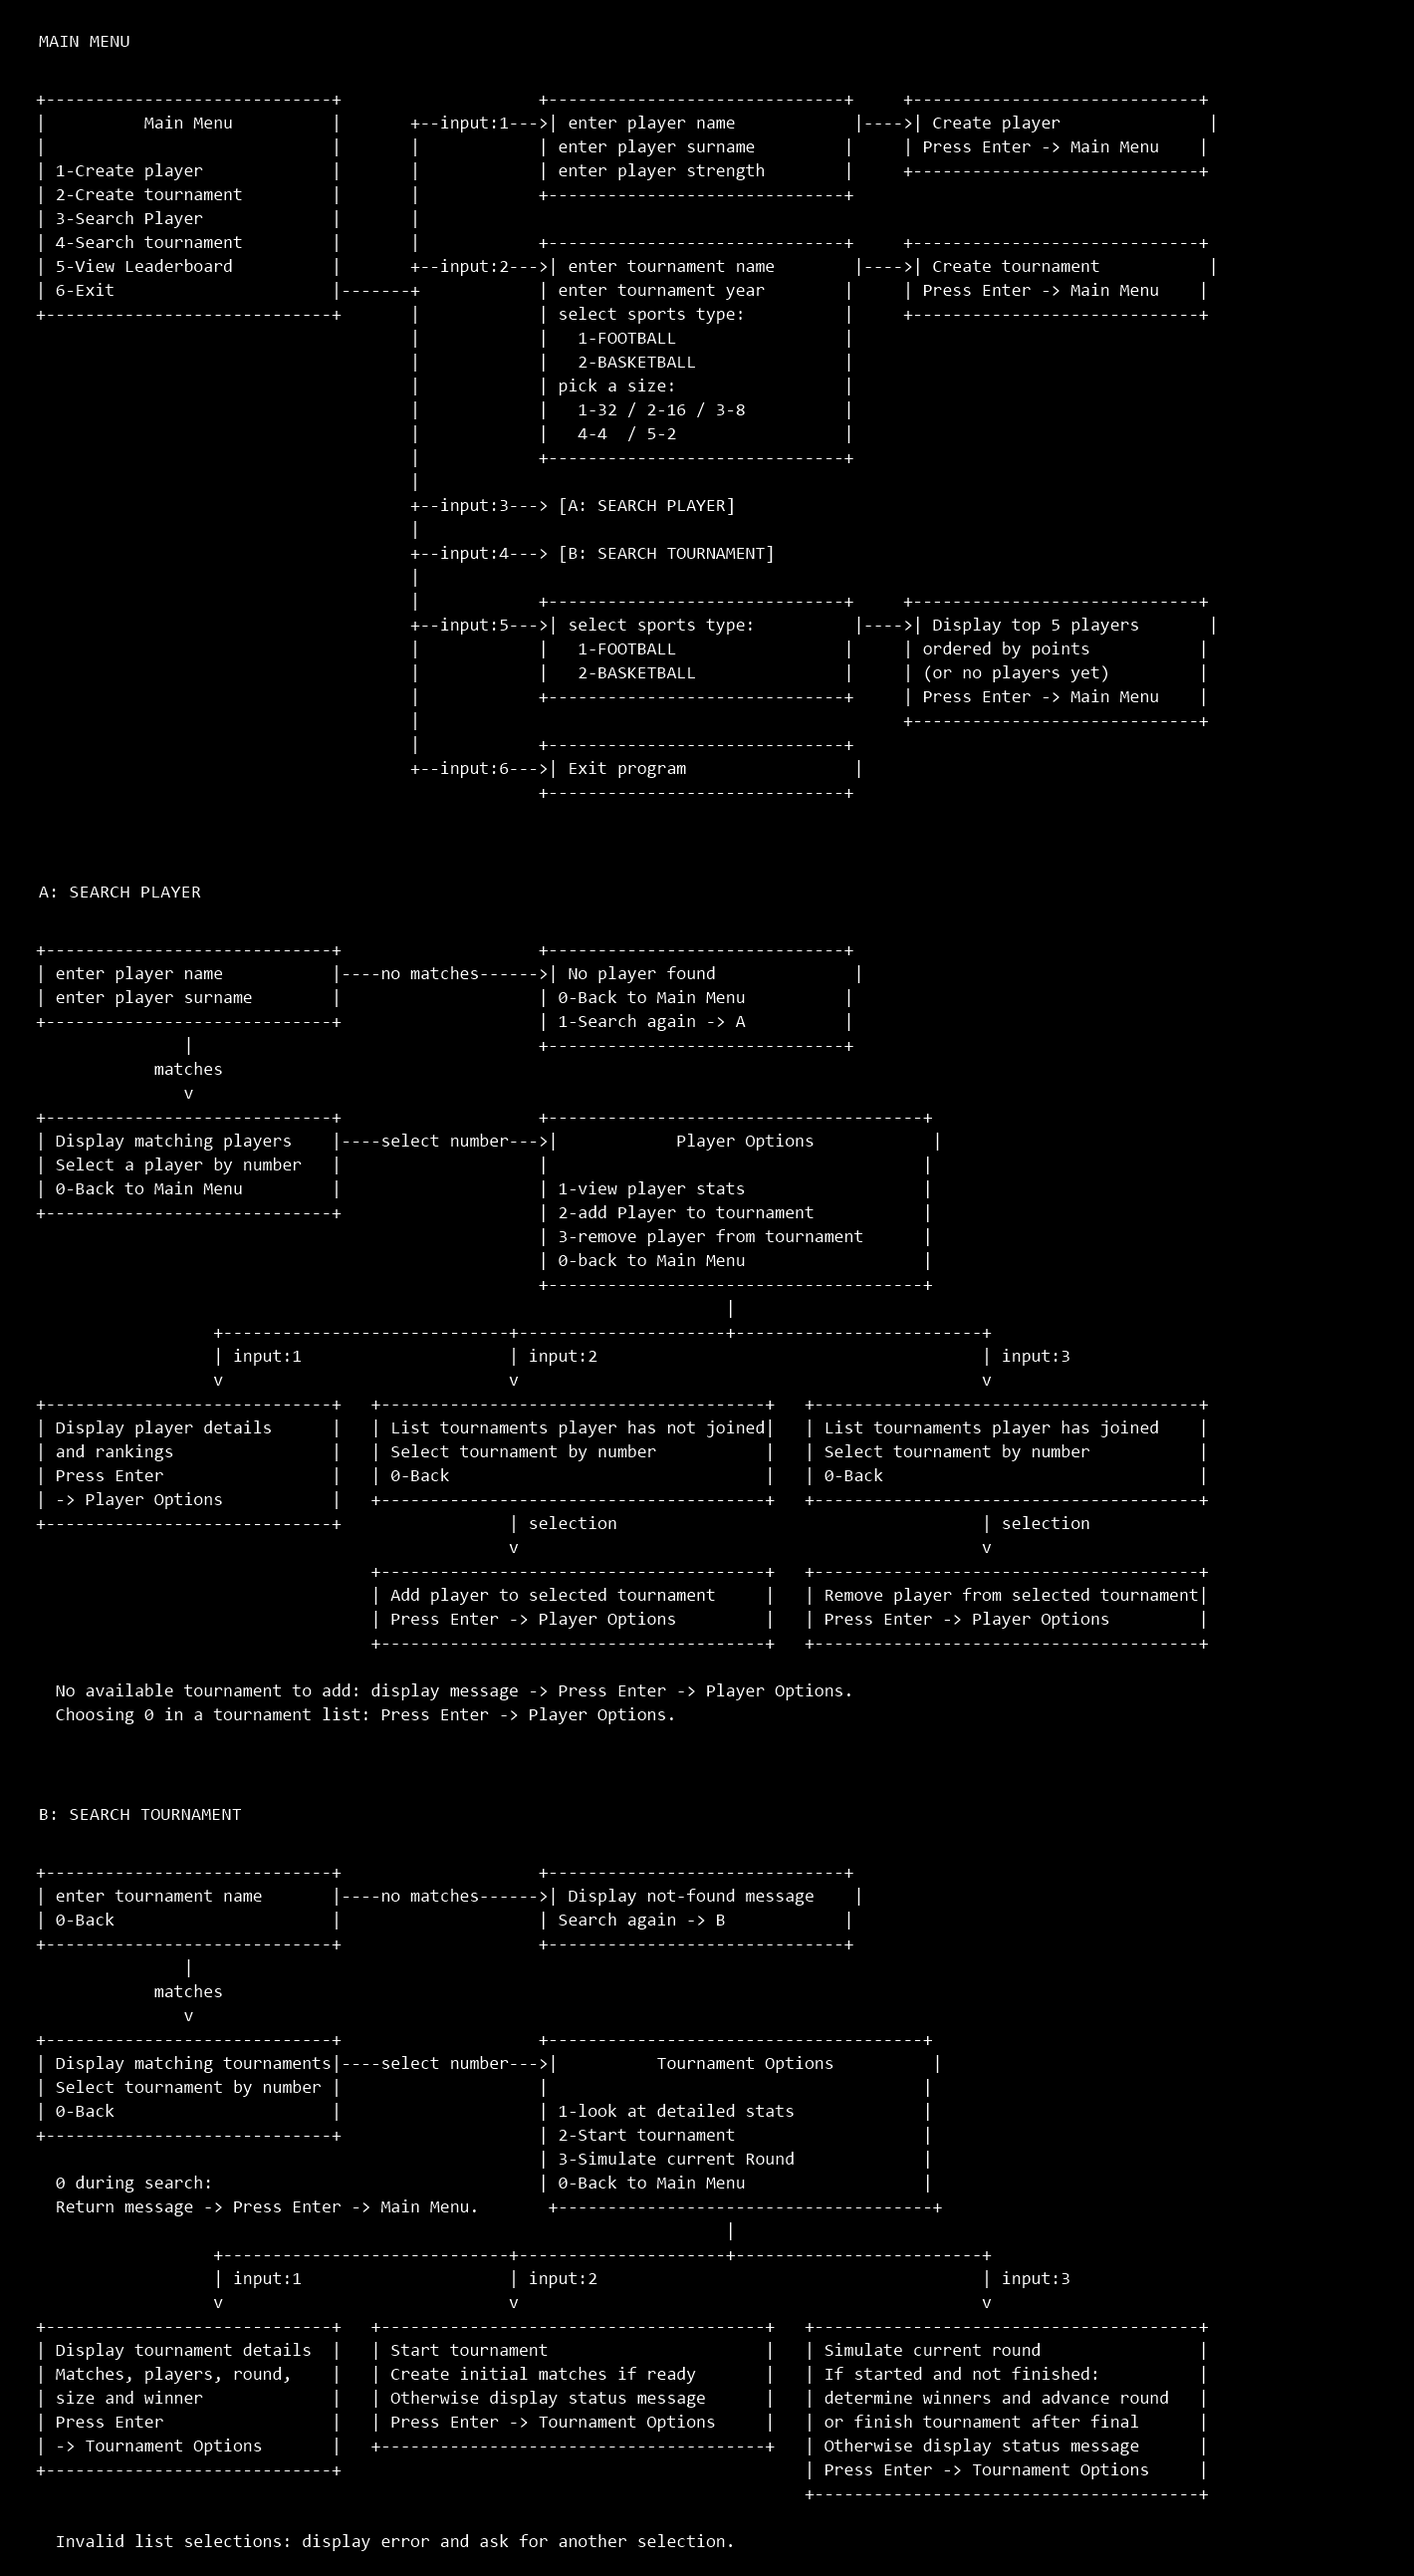
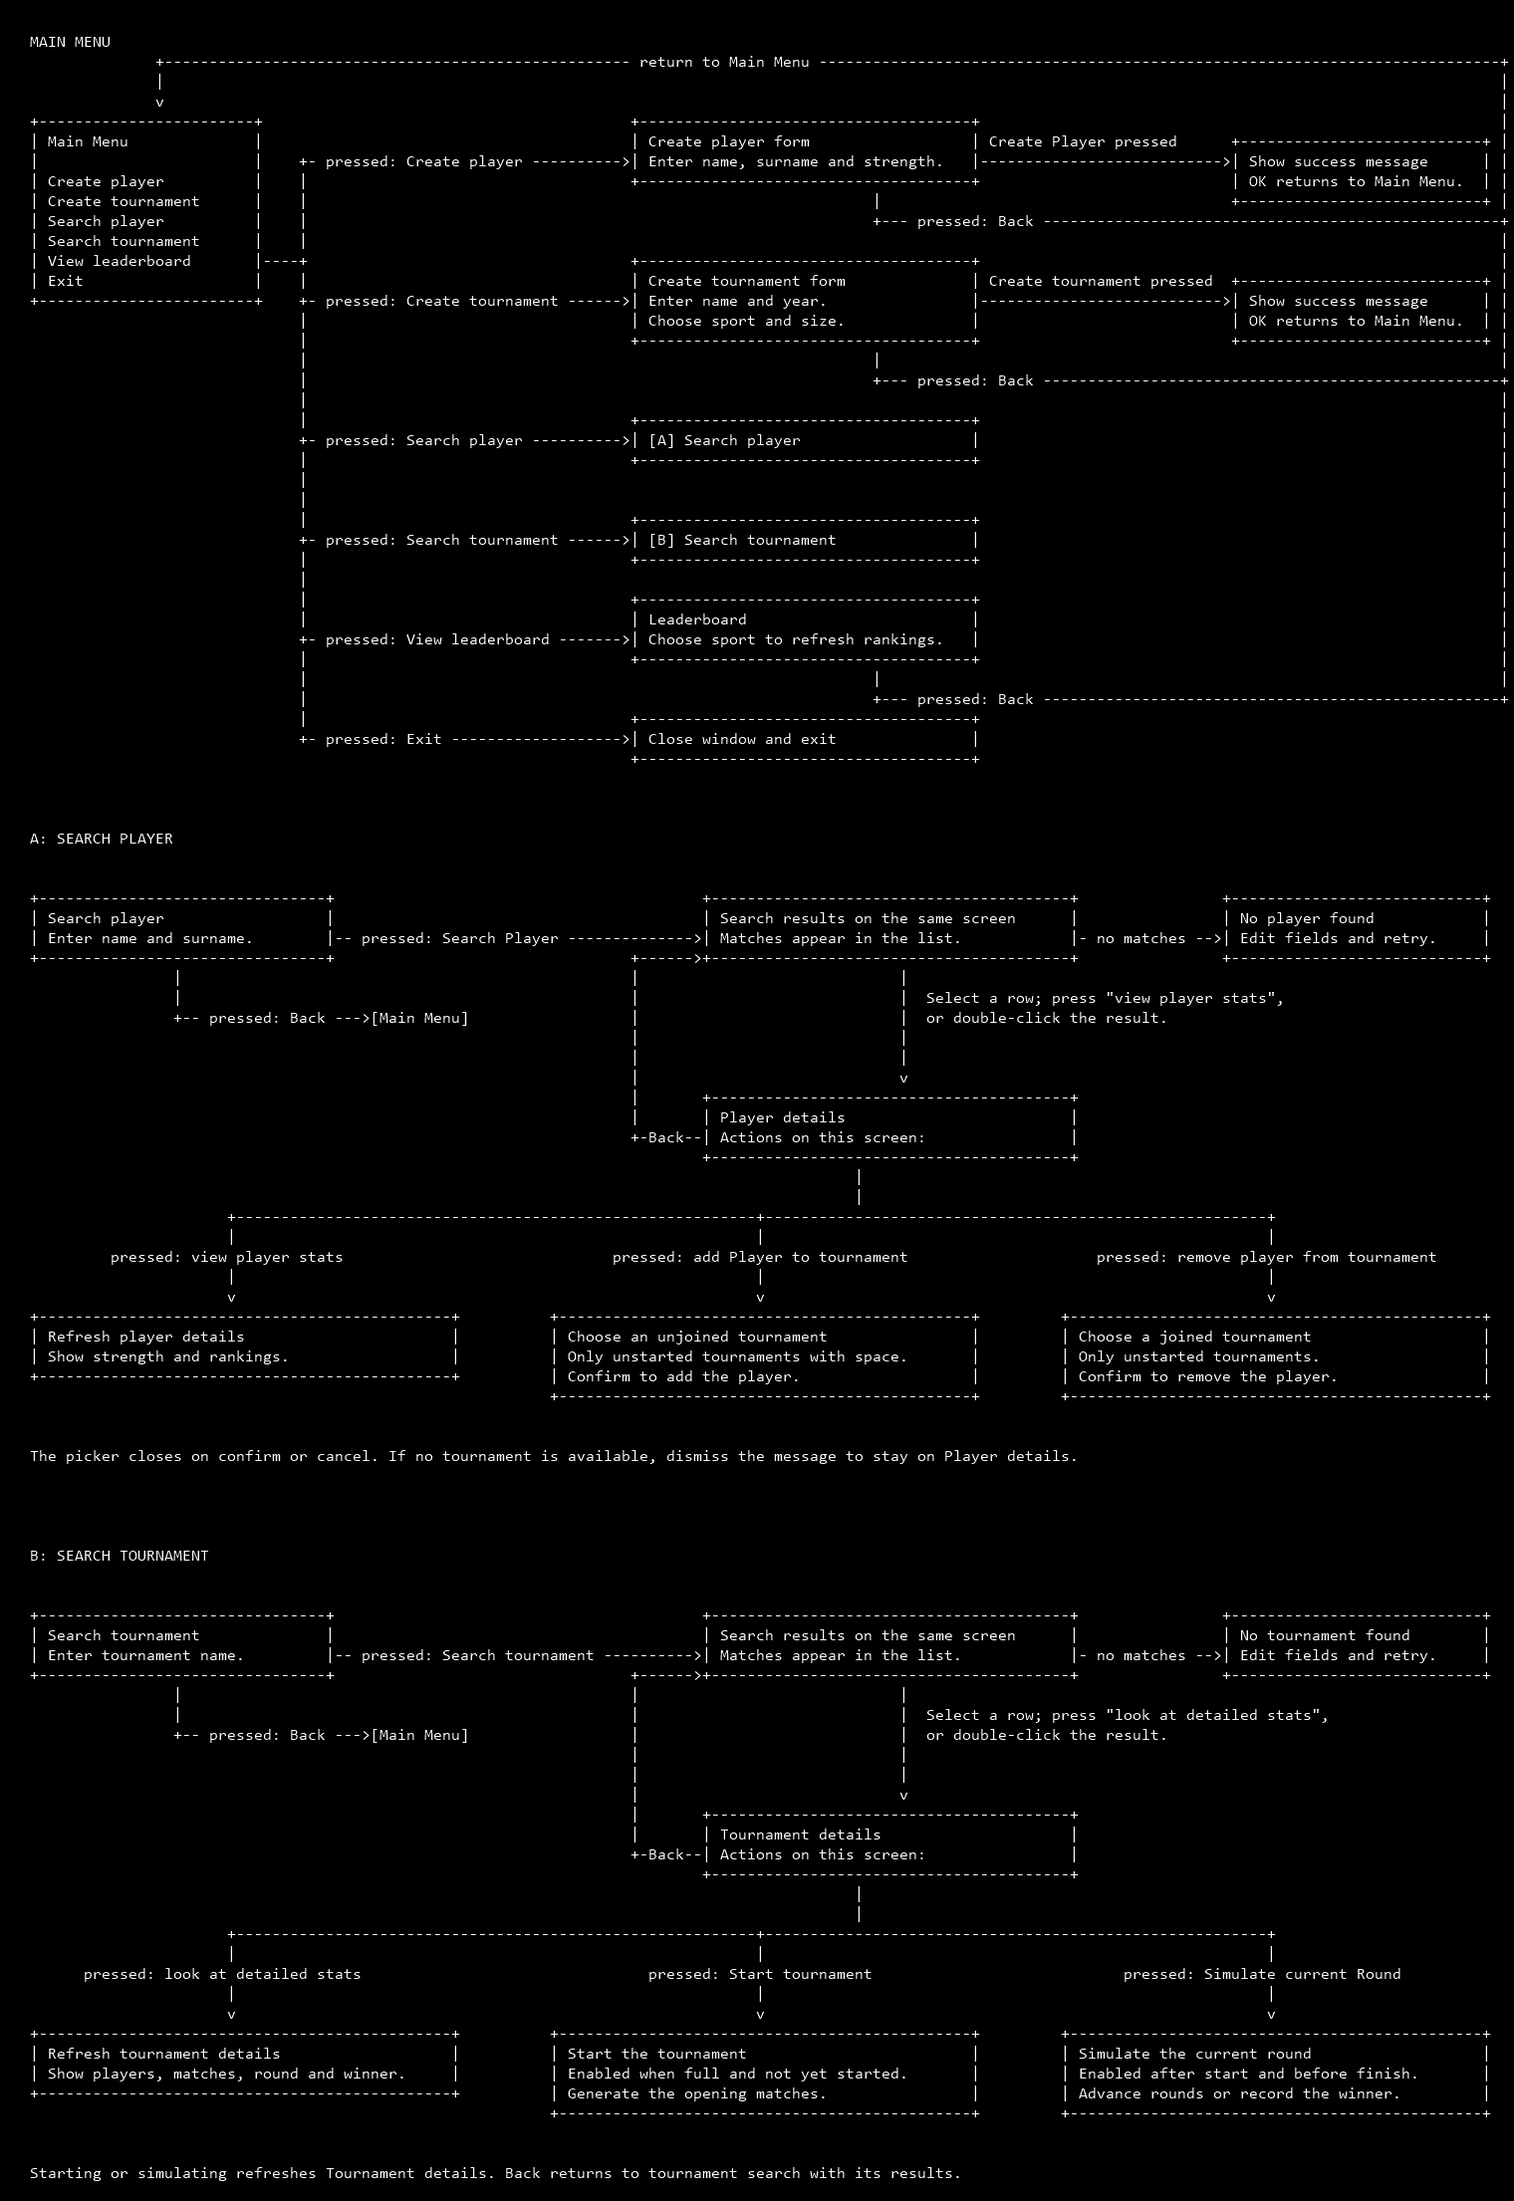
Update menu diagram with Qt buttons and return paths

diff --git a/README.md b/README.md
@@ -25,8 +25,8 @@ C++20, Qt Widgets, SQLite, CMake, and Boost.UUID.
 
 ### Menu flow
 
-The original console design shows how players and tournaments are created, searched, and managed. The current app uses Qt Widgets.
+Follow the Qt buttons to create or search for players and tournaments. The Back arrows show which screen opens when you return.
 
-![Original MatchForge console menu flow for player and tournament management](assets/diagrams/menu-flow.png)
+![MatchForge Qt menu flow showing button actions, search results, and return paths](assets/diagrams/menu-flow.png)
 
 [Open full-size menu flow](assets/diagrams/menu-flow.png)
